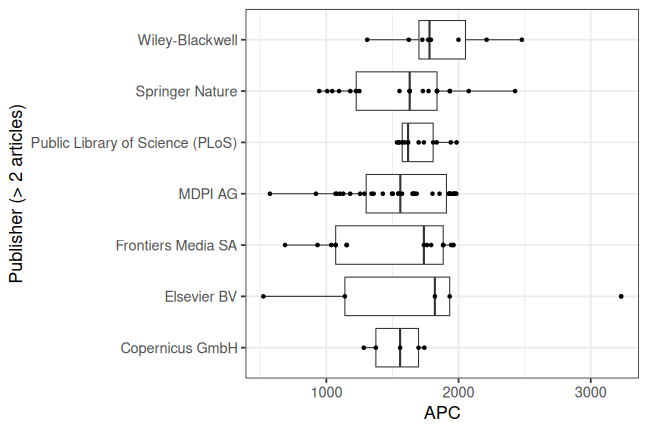
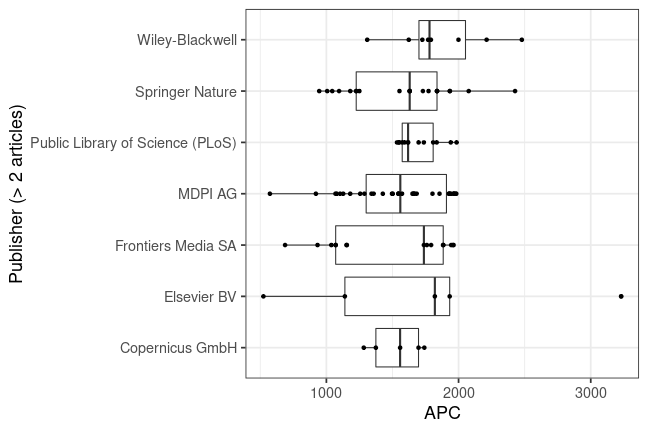
update: trier apc data 2021/22

diff --git a/_posts/2023-05-09-trier.md b/_posts/2023-05-09-trier.md
@@ -21,13 +21,13 @@ Contact Person is [Dr. Evgenia Grishina](mailto:openaccess@uni-trier.de).
 
 
 
-The new data set covers publication fees for 46 articles, total expenditure amounts to 68 183€ and the average fee is 1 482€.
+The new data set covers publication fees for 49 articles, total expenditure amounts to 73 461€ and the average fee is 1 499€.
 
 
 
 |                                                   | Articles| Fees paid in EURO| Mean Fee paid|
 |:--------------------------------------------------|--------:|-----------------:|-------------:|
-|MDPI AG                                            |       10|             16407|          1641|
+|MDPI AG                                            |       13|             21684|          1668|
 |Springer Nature                                    |        9|             12718|          1413|
 |Frontiers Media SA                                 |        8|             11857|          1482|
 |Public Library of Science (PLoS)                   |        4|              7459|          1865|
@@ -49,12 +49,12 @@ With the recent contribution included, the overall APC data for Trier now looks 
 
 ### Fees paid per publisher (in EURO)
 
-![plot of chunk tree_trier_2023_05_09_full](/figure/tree_trier_2023_05_09_full-1.png)
+![plot of chunk tree_trier_2023_05_11_full](/figure/tree_trier_2023_05_11_full-1.png)
 
 ###  Average costs per year (in EURO)
 
-![plot of chunk box_trier_2023_05_09_year_full](/figure/box_trier_2023_05_09_year_full-1.png)
+![plot of chunk box_trier_2023_05_11_year_full](/figure/box_trier_2023_05_11_year_full-1.png)
 
 ###  Average costs per publisher (in EURO)
 
-![plot of chunk box_trier_2023_05_09_publisher_full](/figure/box_trier_2023_05_09_publisher_full-1.png)
+![plot of chunk box_trier_2023_05_11_publisher_full](/figure/box_trier_2023_05_11_publisher_full-1.png)
